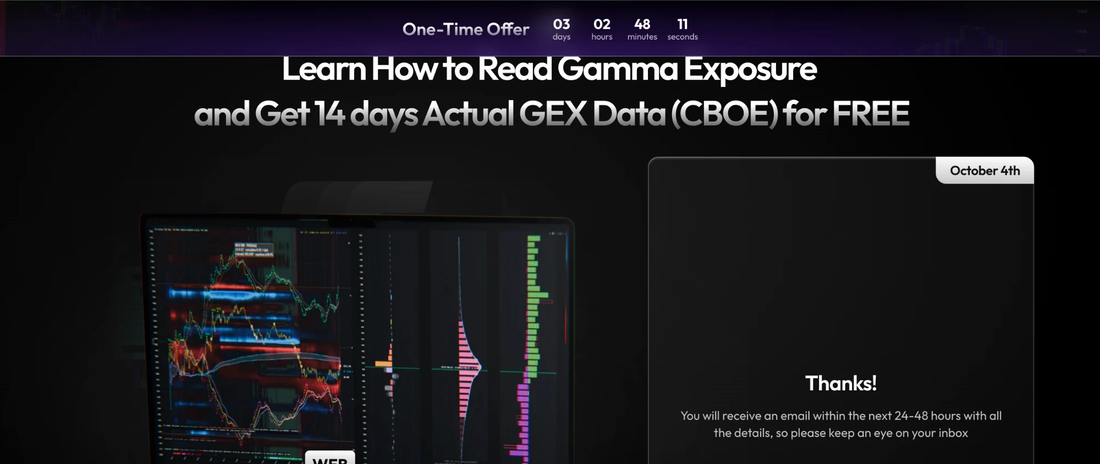
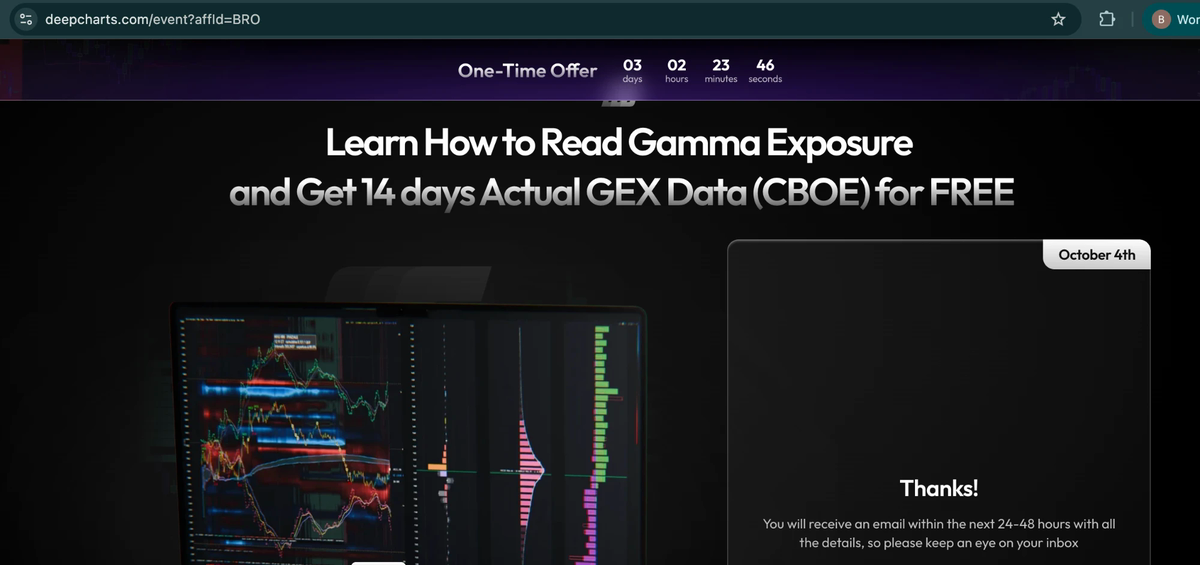
giveaway: require the affId=BRO URL in the proof, drop the extension step
Two changes from Mike on 2026-10-01, after the forms first went live.

Proof is now stricter. The "Thanks!" panel alone only shows that someone
signed up, not that they came through the Bro link, so the screenshot must
also show the address bar with affId=BRO. That also means the confirmation
email no longer counts on its own — it carries no URL — so that option is
gone from the copy.

The Bro Extension is no longer an entry requirement, so its eligibility
line and its whole step block are removed from both forms.

- Example image rebuilt from Mike's new screenshot: address bar kept
  (it is now the point), bookmarks bar stitched out so his tabs are not
  published
- Fixed a real layout bug found while checking this: .prizes li is
  display:flex, so a <strong> inside a bullet became its own flex item and
  split the sentence into two columns on mobile. Bullet text is now wrapped
  in a single span, icons align to the top, and the long URL can break.

Verified locally at 375px: both bullets render as one text block over two
lines, no horizontal scroll, eligibility and steps read correctly.

diff --git a/giveaway/all.html b/giveaway/all.html
@@ -108,9 +108,10 @@
     font-size: 14px;
     padding: 4px 0;
     display: flex;
-    align-items: center;
+    align-items: flex-start;
     gap: 8px;
   }
+  .prizes li i { margin-top: 5px; flex: 0 0 auto; }
   .prizes li i { color: var(--gold); font-size: 11px; }
   form {
     background: var(--card);
@@ -266,8 +267,7 @@
       <li><i class="fab fa-discord"></i> Be in the Bro Trading Discord with the Bro tag</li>
       <li><i class="fab fa-instagram"></i> Comment "deep bro" under the Instagram post</li>
       <li><i class="fas fa-chart-line"></i> Start the free 14-day DeepGamma Web trial with the link below</li>
-      <li><i class="fas fa-puzzle-piece"></i> Have the free Bro Extension installed</li>
-      <li><i class="fas fa-camera"></i> Upload proof of your DeepGamma signup</li>
+      <li><i class="fas fa-camera"></i> Upload a screenshot showing the affId=BRO URL + the "Thanks!" page</li>
     </ul>
   </div>
 
@@ -285,30 +285,25 @@
   <div class="prizes">
     <h3><i class="fas fa-camera"></i> Step 2 · Screenshot your confirmation</h3>
     <p class="field-hint">
-      Right after signing up you'll land on a <strong>"Thanks!"</strong> page — screenshot
-      that. Either of these works as proof:
+      Right after signing up you land on a <strong>"Thanks!"</strong> page. Take one
+      screenshot of your whole browser window, so that <strong>both</strong> of these
+      are visible in the same image:
     </p>
     <ul style="margin-top:10px;">
-      <li><i class="fas fa-circle"></i> The "Thanks!" confirmation page (like the example below)</li>
-      <li><i class="fas fa-circle"></i> The confirmation email — it arrives within 24–48 hours</li>
+      <li><i class="fas fa-circle"></i><span style="overflow-wrap:anywhere;">The address bar, showing <strong>deepcharts.com/event?affId=BRO</strong></span></li>
+      <li><i class="fas fa-circle"></i><span style="overflow-wrap:anywhere;">The <strong>"Thanks!"</strong> panel — "you will receive an email within the next 24–48 hours"</span></li>
     </ul>
     <p class="field-hint" style="margin-top:10px;">
+      ⚠ The <strong>affId=BRO</strong> part of the URL is what proves you signed up
+      through the Bro link. No visible URL, no entry — a cropped screenshot of just
+      the "Thanks!" box isn't enough.
+    </p>
+    <p class="field-hint" style="margin-top:6px;">
       ⚠ Sign up with the <strong>same email</strong> you fill in below. If they don't
       match, we can't verify your entry and it doesn't count.
     </p>
-    <img src="assets/deepgamma-proof-example.png" alt="Example proof screenshot: the DeepGamma signup page showing the 'Thanks! You will receive an email within the next 24-48 hours' confirmation panel." style="width:100%; height:auto; margin-top:12px; border-radius:8px; display:block; border:1px solid rgba(44,158,255,0.2);" />
-    <p class="field-hint" style="margin-top:8px;">Example — the "Thanks!" panel is what we're looking for.</p>
-  </div>
-
-  <div class="prizes">
-    <h3><i class="fas fa-puzzle-piece"></i> Step 3 · Have the Bro Extension installed</h3>
-    <p class="field-hint" style="margin-bottom:14px;">
-      Free Chrome extension — it auto-applies your Bro discount code at checkout on
-      every partner firm. Takes about 10 seconds. Already have it? You're set.
-    </p>
-    <a href="https://chromewebstore.google.com/detail/propfirmbro-discount/oecmjiepckpabedghfhplfkdmoiimkga" target="_blank" rel="noopener" class="btn" style="display:block; text-align:center; text-decoration:none; margin-top:0;">
-      <i class="fab fa-chrome"></i> Get the Bro Extension
-    </a>
+    <img src="assets/deepgamma-proof-example.png" alt="Example proof screenshot: a browser window with the address bar reading deepcharts.com/event?affId=BRO and the 'Thanks! You will receive an email within the next 24-48 hours' confirmation panel both visible." style="width:100%; height:auto; margin-top:12px; border-radius:8px; display:block; border:1px solid rgba(44,158,255,0.2);" />
+    <p class="field-hint" style="margin-top:8px;">Example — note the URL at the top AND the "Thanks!" panel. Yours needs both.</p>
   </div>
 
   <form id="entryForm" autocomplete="off">
@@ -366,9 +361,9 @@
       <label><i class="fas fa-camera"></i> DeepGamma Signup Proof</label>
       <input type="file" id="receiptFile" accept="image/*" required />
       <div class="field-hint">
-        Your screenshot from Step 2 — the "Thanks!" confirmation page, or the
-        confirmation email. Large photos are auto-shrunk before sending — this can
-        take a few seconds.
+        Your screenshot from Step 2 — the address bar showing affId=BRO AND the
+        "Thanks!" panel, in one image. Large photos are auto-shrunk before sending —
+        this can take a few seconds.
       </div>
       <div id="receiptPreviewWrap" style="display:none; margin-top:8px;">
         <img id="receiptPreview" style="max-width:200px; border-radius:8px; display:block;" />

diff --git a/giveaway/pro.html b/giveaway/pro.html
@@ -266,7 +266,6 @@
       <li><i class="fab fa-discord"></i> Be in the Bro Trading Discord with the Bro tag</li>
       <li><i class="fab fa-instagram"></i> Comment "deep bro" under the Instagram post</li>
       <li><i class="fas fa-chart-line"></i> Start the free 14-day DeepGamma Web trial with the Bro link</li>
-      <li><i class="fas fa-puzzle-piece"></i> Have the free Bro Extension installed</li>
       <li><i class="fas fa-key"></i> Have today's Pro Bro password (posted in the Pro Bro channel)</li>
     </ul>
   </div>
